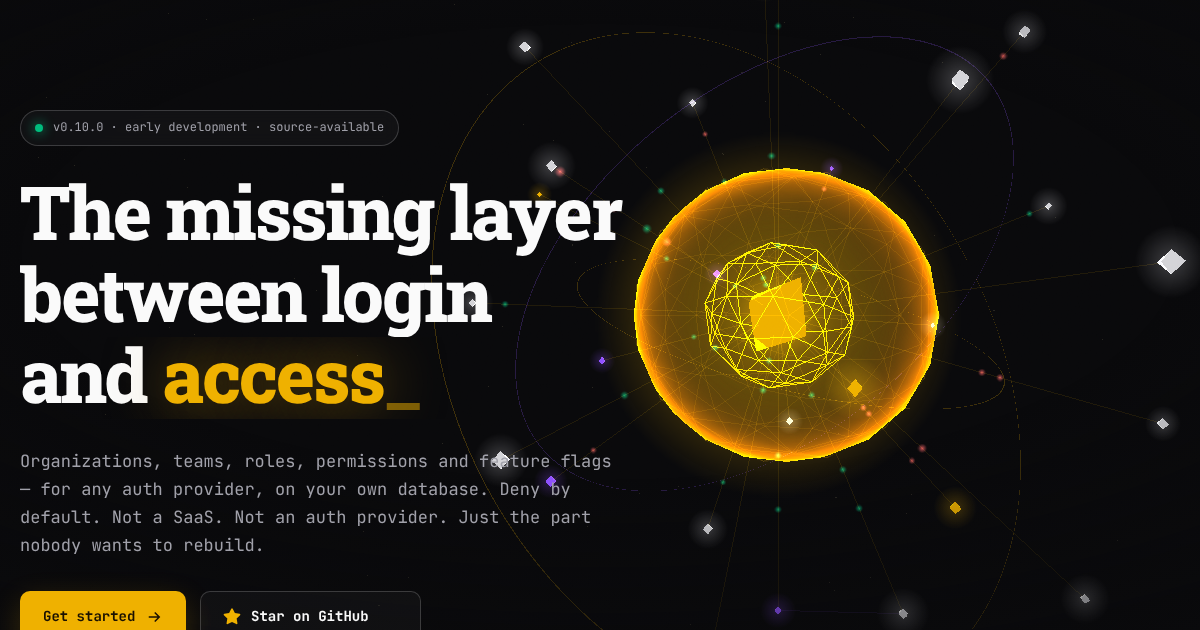
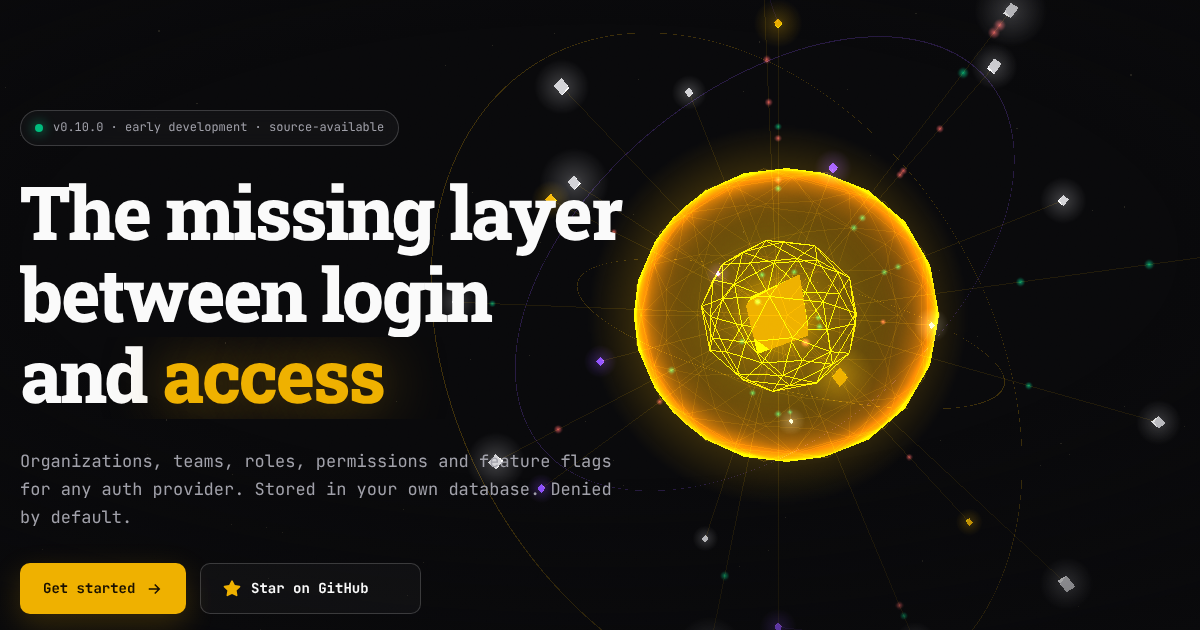
docs(readme): show the new features with real Studio screenshots
- Banner, npm and license badges, and links to the website and docs.
- "Two ways to run UNIORA": embedded library vs standalone server.
- "What is included": teams, policies, quotas, delegated administration,
  webhooks and outbox, platform administrators, support grants, RLS, tooling.
- "UNIORA Studio" gallery with real screenshots (English and Spanish sets) taken
  from Studio running on a seeded SQLite database: members, roles, teams,
  policies, invitations, features, API clients, webhooks, platform, audit log.
- Regenerate the social preview image from the current landing hero.

Claude-Session: https://claude.ai/code/session_018iW9Znx12scjWuHmThc1KR

diff --git a/README.es.md b/README.es.md
@@ -1,5 +1,7 @@
 <div align="center">
 
+<a href="https://codexsploitx.github.io/uniora/"><img src="site/assets/og.png" alt="UNIORA" width="760"></a>
+
 # UNIORA
 
 **Universal Organization & Authorization**
@@ -8,10 +10,12 @@ Organizaciones, equipos, roles, permisos y feature flags — para cualquier prov
 
 [![GitHub stars](https://img.shields.io/github/stars/CodexSploitx/uniora?style=social)](https://github.com/CodexSploitx/uniora)
 ![status](https://img.shields.io/badge/status-desarrollo%20temprano-orange)
+[![npm](https://img.shields.io/npm/v/@uniora/core?label=%40uniora%2Fcore&color=efb100)](https://www.npmjs.com/org/uniora)
+![license](https://img.shields.io/badge/license-PolyForm%20Shield%201.0.0-blue)
 ![TypeScript](https://img.shields.io/badge/TypeScript-strict-blue)
 ![pnpm](https://img.shields.io/badge/monorepo-pnpm%20workspaces-yellow)
 
-[English](README.md) · [Sitio web](https://codexsploitx.github.io/uniora/)
+[English](README.md) · [Sitio web](https://codexsploitx.github.io/uniora/) · [Documentación](guides/README.md)
 
 </div>
 
@@ -40,6 +44,80 @@ Auth Provider                        UNIORA
 - **Las organizaciones no pueden quedar huérfanas.** Toda organización nace con un Owner protegido, y `MembershipRepository` rechaza quitarle el role Owner o borrar una membership si es la última que lo tiene — reforzado con una constraint real de base de datos, no solo con código de aplicación.
 - **Organizaciones *y* entitlements.** Los permisos responden "qué puede hacer este usuario"; las features responden "qué tiene desbloqueado esta organización". Son dos preguntas distintas, modeladas por separado, para que no tengas que simular una con la otra.
 - **Core framework-independent.** `@uniora/core` no depende de Next.js, Express, ni de ningún driver de base de datos específico — los adapters se conectan alrededor.
+
+## Dos formas de ejecutar UNIORA
+
+El mismo motor, las mismas reglas y el mismo modelo de datos. Elige cómo llega a tu código:
+
+| | Biblioteca embebida | Servidor independiente |
+| --- | --- | --- |
+| **Se ejecuta** | Dentro del proceso de tu backend | Como un servicio aparte que tú operas |
+| **Se invoca con** | `uniora.can()` | HTTPS y una API key (`POST /v1/check`), o el `@uniora/client` tipado |
+| **Salto de red** | Ninguno | Una solicitud por decisión |
+| **Lenguajes** | TypeScript y Node.js | Cualquier lenguaje por REST ([OpenAPI](guides/openapi.json)) |
+| **Datos** | Tu base de datos, en un esquema `uniora.*` dedicado | Su propia base de datos dedicada |
+| **Control de acceso** | El código de tu aplicación | API clients con scopes y listas de organizaciones |
+| **Empezar** | `npm install @uniora/core` | `npx uniora server start` |
+| **Guía** | [Primeros pasos](guides/getting-started.md) | [El servidor](guides/server.md) |
+
+No existe una nube de UNIORA. En ambos modos lo ejecutas tú y los datos son tuyos.
+
+## Qué incluye
+
+- **Organizaciones, miembros, roles y permisos.** Roles personalizados por organización, un catálogo de permisos con grupos e implicaciones, un Owner protegido, miembros bloqueados y suspendidos.
+- **Equipos.** Una jerarquía con responsabilidades. Un equipo da contexto, nunca acceso ([guía](guides/teams.md)).
+- **Políticas.** Reglas condicionales sobre los permisos: atributos del recurso, alcance y jerarquía de equipos, tiempo y contexto de la solicitud, y step-up (MFA reciente). Simula antes de publicar ([guía](guides/policies.md)).
+- **Features y cuotas.** Qué ha desbloqueado cada organización y cuántos asientos o reportes puede usar ([guía](guides/entitlements.md)).
+- **Invitaciones.** Enlaces de un solo uso, envío por correo con reintentos, reenvío y revocación ([guía](guides/invitations.md)).
+- **Administración delegada.** Permite que los líderes inviten y asignen roles sin escalada de privilegios ([guía](guides/access-admin.md)).
+- **Log de auditoría.** Solo-añadir y encadenado por hash, con verificación de integridad ([guía](guides/audit-log.md)).
+- **Webhooks y outbox.** Eventos escritos en la misma transacción que el cambio y entregados después, firmados y con reintentos ([outbox](guides/outbox.md)).
+- **Administradores de plataforma y support grants.** El poder del personal propio queda fuera de cualquier organización, y el acceso temporal y auditado a los datos de un cliente es explícito ([plataforma](guides/platform.md), [support grants](guides/support-grants.md)).
+- **Row-level security en PostgreSQL.** Funciones SQL que dan a tus propias tablas las mismas respuestas que el motor ([guía](guides/rls.md)).
+- **Herramientas.** Un CLI con ledger de migraciones, un cliente tipado y Studio, una interfaz de administración local. Medido con 5.000.000 de membresías ([rendimiento](guides/performance.md)).
+
+## UNIORA Studio
+
+Una interfaz de administración local-first sobre tu propia base de datos. Se ejecuta con `npx uniora studio`. Solo escucha en `127.0.0.1`, se desbloquea con un token aleatorio por lanzamiento y no envía datos a ningún lado. Cada cambio que hace queda auditado, y `--read-only` lo convierte en un visor seguro. Las capturas muestran una base de datos de demostración.
+
+<p align="center"><a href="assets/readme/es/overview.webp"><img src="assets/readme/es/overview.webp" alt="Resumen de UNIORA Studio" width="900"></a></p>
+
+<table>
+<tr>
+<td width="50%"><a href="assets/readme/es/members.webp"><img src="assets/readme/es/members.webp" alt="Miembros"></a><br><sub><b>Miembros</b>. Identidades de cualquier proveedor con sus roles. El Owner protegido no puede eliminarse.</sub></td>
+<td width="50%"><a href="assets/readme/es/roles.webp"><img src="assets/readme/es/roles.webp" alt="Roles y permisos"></a><br><sub><b>Roles y permisos</b>. Una lista de permisos por rol, por organización.</sub></td>
+</tr>
+<tr>
+<td width="50%"><a href="assets/readme/es/teams.webp"><img src="assets/readme/es/teams.webp" alt="Equipos"></a><br><sub><b>Equipos</b>. Una jerarquía con responsabilidades. Un equipo es contexto, no autoridad.</sub></td>
+<td width="50%"><a href="assets/readme/es/policies.webp"><img src="assets/readme/es/policies.webp" alt="Políticas"></a><br><sub><b>Políticas</b>. Reglas condicionales con historial de revisiones. Solo lectura en Studio.</sub></td>
+</tr>
+<tr>
+<td width="50%"><a href="assets/readme/es/invitations.webp"><img src="assets/readme/es/invitations.webp" alt="Invitaciones"></a><br><sub><b>Invitaciones</b>. Invita, reenvía y revoca. Los enlaces son de un solo uso.</sub></td>
+<td width="50%"><a href="assets/readme/es/features.webp"><img src="assets/readme/es/features.webp" alt="Features"></a><br><sub><b>Features</b>. Qué organizaciones tienen desbloqueada cada feature.</sub></td>
+</tr>
+<tr>
+<td width="50%"><a href="assets/readme/es/api-clients.webp"><img src="assets/readme/es/api-clients.webp" alt="Clientes de API"></a><br><sub><b>Clientes de API</b>. Clientes y claves con scopes para el servidor independiente. La clave se muestra una vez.</sub></td>
+<td width="50%"><a href="assets/readme/es/webhooks.webp"><img src="assets/readme/es/webhooks.webp" alt="Webhooks"></a><br><sub><b>Webhooks</b>. Eventos firmados con reintentos y rotación del secreto.</sub></td>
+</tr>
+<tr>
+<td width="50%"><a href="assets/readme/es/platform.webp"><img src="assets/readme/es/platform.webp" alt="Plataforma"></a><br><sub><b>Plataforma</b>. Quién administra la plataforma, aparte de cualquier organización. Solo lectura en Studio.</sub></td>
+<td width="50%"><a href="assets/readme/es/activity.webp"><img src="assets/readme/es/activity.webp" alt="Log de auditoría"></a><br><sub><b>Log de auditoría</b>. Cada cambio de todas las organizaciones, el más reciente primero.</sub></td>
+</tr>
+</table>
+
+<details>
+<summary>Más pantallas</summary>
+
+<p><b>Organizaciones</b></p>
+<img src="assets/readme/es/organizations.webp" alt="Lista de organizaciones en Studio" width="700">
+
+<p><b>Catálogo de permisos</b>. La lista global de acciones que tu app puede verificar, y cuántos roles tiene cada una.</p>
+<img src="assets/readme/es/permissions.webp" alt="Catálogo de permisos en Studio" width="700">
+
+<p><b>Features por organización</b>. Activa y desactiva features para una organización.</p>
+<img src="assets/readme/es/org-features.webp" alt="Features de una organización en Studio" width="700">
+
+</details>
 
 ## Vistazo rápido
 

diff --git a/README.md b/README.md
@@ -1,5 +1,7 @@
 <div align="center">
 
+<a href="https://codexsploitx.github.io/uniora/"><img src="site/assets/og.png" alt="UNIORA" width="760"></a>
+
 # UNIORA
 
 **Universal Organization & Authorization**
@@ -8,10 +10,12 @@ Organizations, teams, roles, permissions and feature flags — for any auth prov
 
 [![GitHub stars](https://img.shields.io/github/stars/CodexSploitx/uniora?style=social)](https://github.com/CodexSploitx/uniora)
 ![status](https://img.shields.io/badge/status-early%20development-orange)
+[![npm](https://img.shields.io/npm/v/@uniora/core?label=%40uniora%2Fcore&color=efb100)](https://www.npmjs.com/org/uniora)
+![license](https://img.shields.io/badge/license-PolyForm%20Shield%201.0.0-blue)
 ![TypeScript](https://img.shields.io/badge/TypeScript-strict-blue)
 ![pnpm](https://img.shields.io/badge/monorepo-pnpm%20workspaces-yellow)
 
-[Español](README.es.md) · [Website](https://codexsploitx.github.io/uniora/)
+[Español](README.es.md) · [Website](https://codexsploitx.github.io/uniora/) · [Documentation](guides/README.md)
 
 </div>
 
@@ -40,6 +44,80 @@ Auth Provider                    UNIORA
 - **Organizations can't be orphaned.** Every organization is born with a protected Owner, and `MembershipRepository` refuses to unassign the Owner role or delete a membership if it's the last one holding it — enforced with a real database constraint, not just application code.
 - **Organizations *and* entitlements.** Permissions answer "what can this user do"; features answer "what has this organization unlocked." Two different questions, modeled separately, so you don't have to fake one with the other.
 - **Framework-independent core.** `@uniora/core` has zero dependency on Next.js, Express, or any specific database driver — adapters plug in around it.
+
+## Two ways to run UNIORA
+
+The same engine, rules and data model. Choose how it reaches your code:
+
+| | Embedded library | Standalone server |
+| --- | --- | --- |
+| **Runs** | Inside your backend process | As a separate service you operate |
+| **You call it with** | `uniora.can()` | HTTPS and an API key (`POST /v1/check`), or the typed `@uniora/client` |
+| **Network hop** | None | One request per decision |
+| **Languages** | TypeScript and Node.js | Any language over REST ([OpenAPI](guides/openapi.json)) |
+| **Data** | Your database, in a dedicated `uniora.*` schema | Its own dedicated database |
+| **Access control** | Your application code | API clients with scopes and organization lists |
+| **Start** | `npm install @uniora/core` | `npx uniora server start` |
+| **Guide** | [Getting started](guides/getting-started.md) | [The server](guides/server.md) |
+
+There is no UNIORA cloud. In both modes you run it and you own the data.
+
+## What is included
+
+- **Organizations, members, roles and permissions.** Custom roles per organization, a permission catalog with groups and implications, a protected Owner, blocked and suspended members.
+- **Teams.** A hierarchy with responsibilities. A team gives context, never access ([guide](guides/teams.md)).
+- **Policies.** Conditional rules on top of permissions: resource attributes, team scope and hierarchy, time and request context, and step-up (recent MFA). Simulate before you publish ([guide](guides/policies.md)).
+- **Features and quotas.** What each organization has unlocked, and how many seats or reports it may use ([guide](guides/entitlements.md)).
+- **Invitations.** Single-use links, e-mail delivery with retries, resend and revoke ([guide](guides/invitations.md)).
+- **Delegated administration.** Let team leads invite and assign roles without privilege escalation ([guide](guides/access-admin.md)).
+- **Audit log.** Append-only and hash-chained, with an integrity check ([guide](guides/audit-log.md)).
+- **Webhooks and outbox.** Events written in the same transaction as the change, then delivered signed, with retries ([outbox](guides/outbox.md)).
+- **Platform administrators and support grants.** Staff power kept outside any organization, and temporary, audited access to a customer's data ([platform](guides/platform.md), [support grants](guides/support-grants.md)).
+- **PostgreSQL row-level security.** SQL functions that give your own tables the same answers as the engine ([guide](guides/rls.md)).
+- **Tooling.** A CLI with a migration ledger, a typed client, and Studio, a local admin UI. Measured on 5,000,000 memberships ([performance](guides/performance.md)).
+
+## UNIORA Studio
+
+A local-first admin UI over your own database. Run it with `npx uniora studio`. It listens on `127.0.0.1` only, is unlocked by a random per-launch token and sends data nowhere. Every change it makes is audited, and `--read-only` makes it a safe viewer. Screenshots show a demo database.
+
+<p align="center"><a href="assets/readme/en/overview.webp"><img src="assets/readme/en/overview.webp" alt="UNIORA Studio overview" width="900"></a></p>
+
+<table>
+<tr>
+<td width="50%"><a href="assets/readme/en/members.webp"><img src="assets/readme/en/members.webp" alt="Members"></a><br><sub><b>Members</b>. Identities from any provider with their roles. The protected Owner cannot be removed.</sub></td>
+<td width="50%"><a href="assets/readme/en/roles.webp"><img src="assets/readme/en/roles.webp" alt="Roles and permissions"></a><br><sub><b>Roles and permissions</b>. A permission checklist per role, per organization.</sub></td>
+</tr>
+<tr>
+<td width="50%"><a href="assets/readme/en/teams.webp"><img src="assets/readme/en/teams.webp" alt="Teams"></a><br><sub><b>Teams</b>. A hierarchy with responsibilities. A team is context, not authority.</sub></td>
+<td width="50%"><a href="assets/readme/en/policies.webp"><img src="assets/readme/en/policies.webp" alt="Policies"></a><br><sub><b>Policies</b>. Conditional rules with revision history. Read-only in Studio.</sub></td>
+</tr>
+<tr>
+<td width="50%"><a href="assets/readme/en/invitations.webp"><img src="assets/readme/en/invitations.webp" alt="Invitations"></a><br><sub><b>Invitations</b>. Invite, resend and revoke. Links are single-use.</sub></td>
+<td width="50%"><a href="assets/readme/en/features.webp"><img src="assets/readme/en/features.webp" alt="Features"></a><br><sub><b>Features</b>. Which organizations have each feature unlocked.</sub></td>
+</tr>
+<tr>
+<td width="50%"><a href="assets/readme/en/api-clients.webp"><img src="assets/readme/en/api-clients.webp" alt="API clients"></a><br><sub><b>API clients</b>. Scoped clients and keys for the standalone server. A key is shown once.</sub></td>
+<td width="50%"><a href="assets/readme/en/webhooks.webp"><img src="assets/readme/en/webhooks.webp" alt="Webhooks"></a><br><sub><b>Webhooks</b>. Signed events with retries and secret rotation.</sub></td>
+</tr>
+<tr>
+<td width="50%"><a href="assets/readme/en/platform.webp"><img src="assets/readme/en/platform.webp" alt="Platform"></a><br><sub><b>Platform</b>. Who administers the platform, apart from any organization. Read-only in Studio.</sub></td>
+<td width="50%"><a href="assets/readme/en/activity.webp"><img src="assets/readme/en/activity.webp" alt="Audit log"></a><br><sub><b>Audit log</b>. Every change across organizations, newest first.</sub></td>
+</tr>
+</table>
+
+<details>
+<summary>More screens</summary>
+
+<p><b>Organizations</b></p>
+<img src="assets/readme/en/organizations.webp" alt="Studio organizations list" width="700">
+
+<p><b>Permission catalog</b>. The global list of actions your app can check, and how many roles hold each.</p>
+<img src="assets/readme/en/permissions.webp" alt="Studio permission catalog" width="700">
+
+<p><b>Features per organization</b>. Switch features on and off for one organization.</p>
+<img src="assets/readme/en/org-features.webp" alt="Studio organization features" width="700">
+
+</details>
 
 ## Quick look
 
